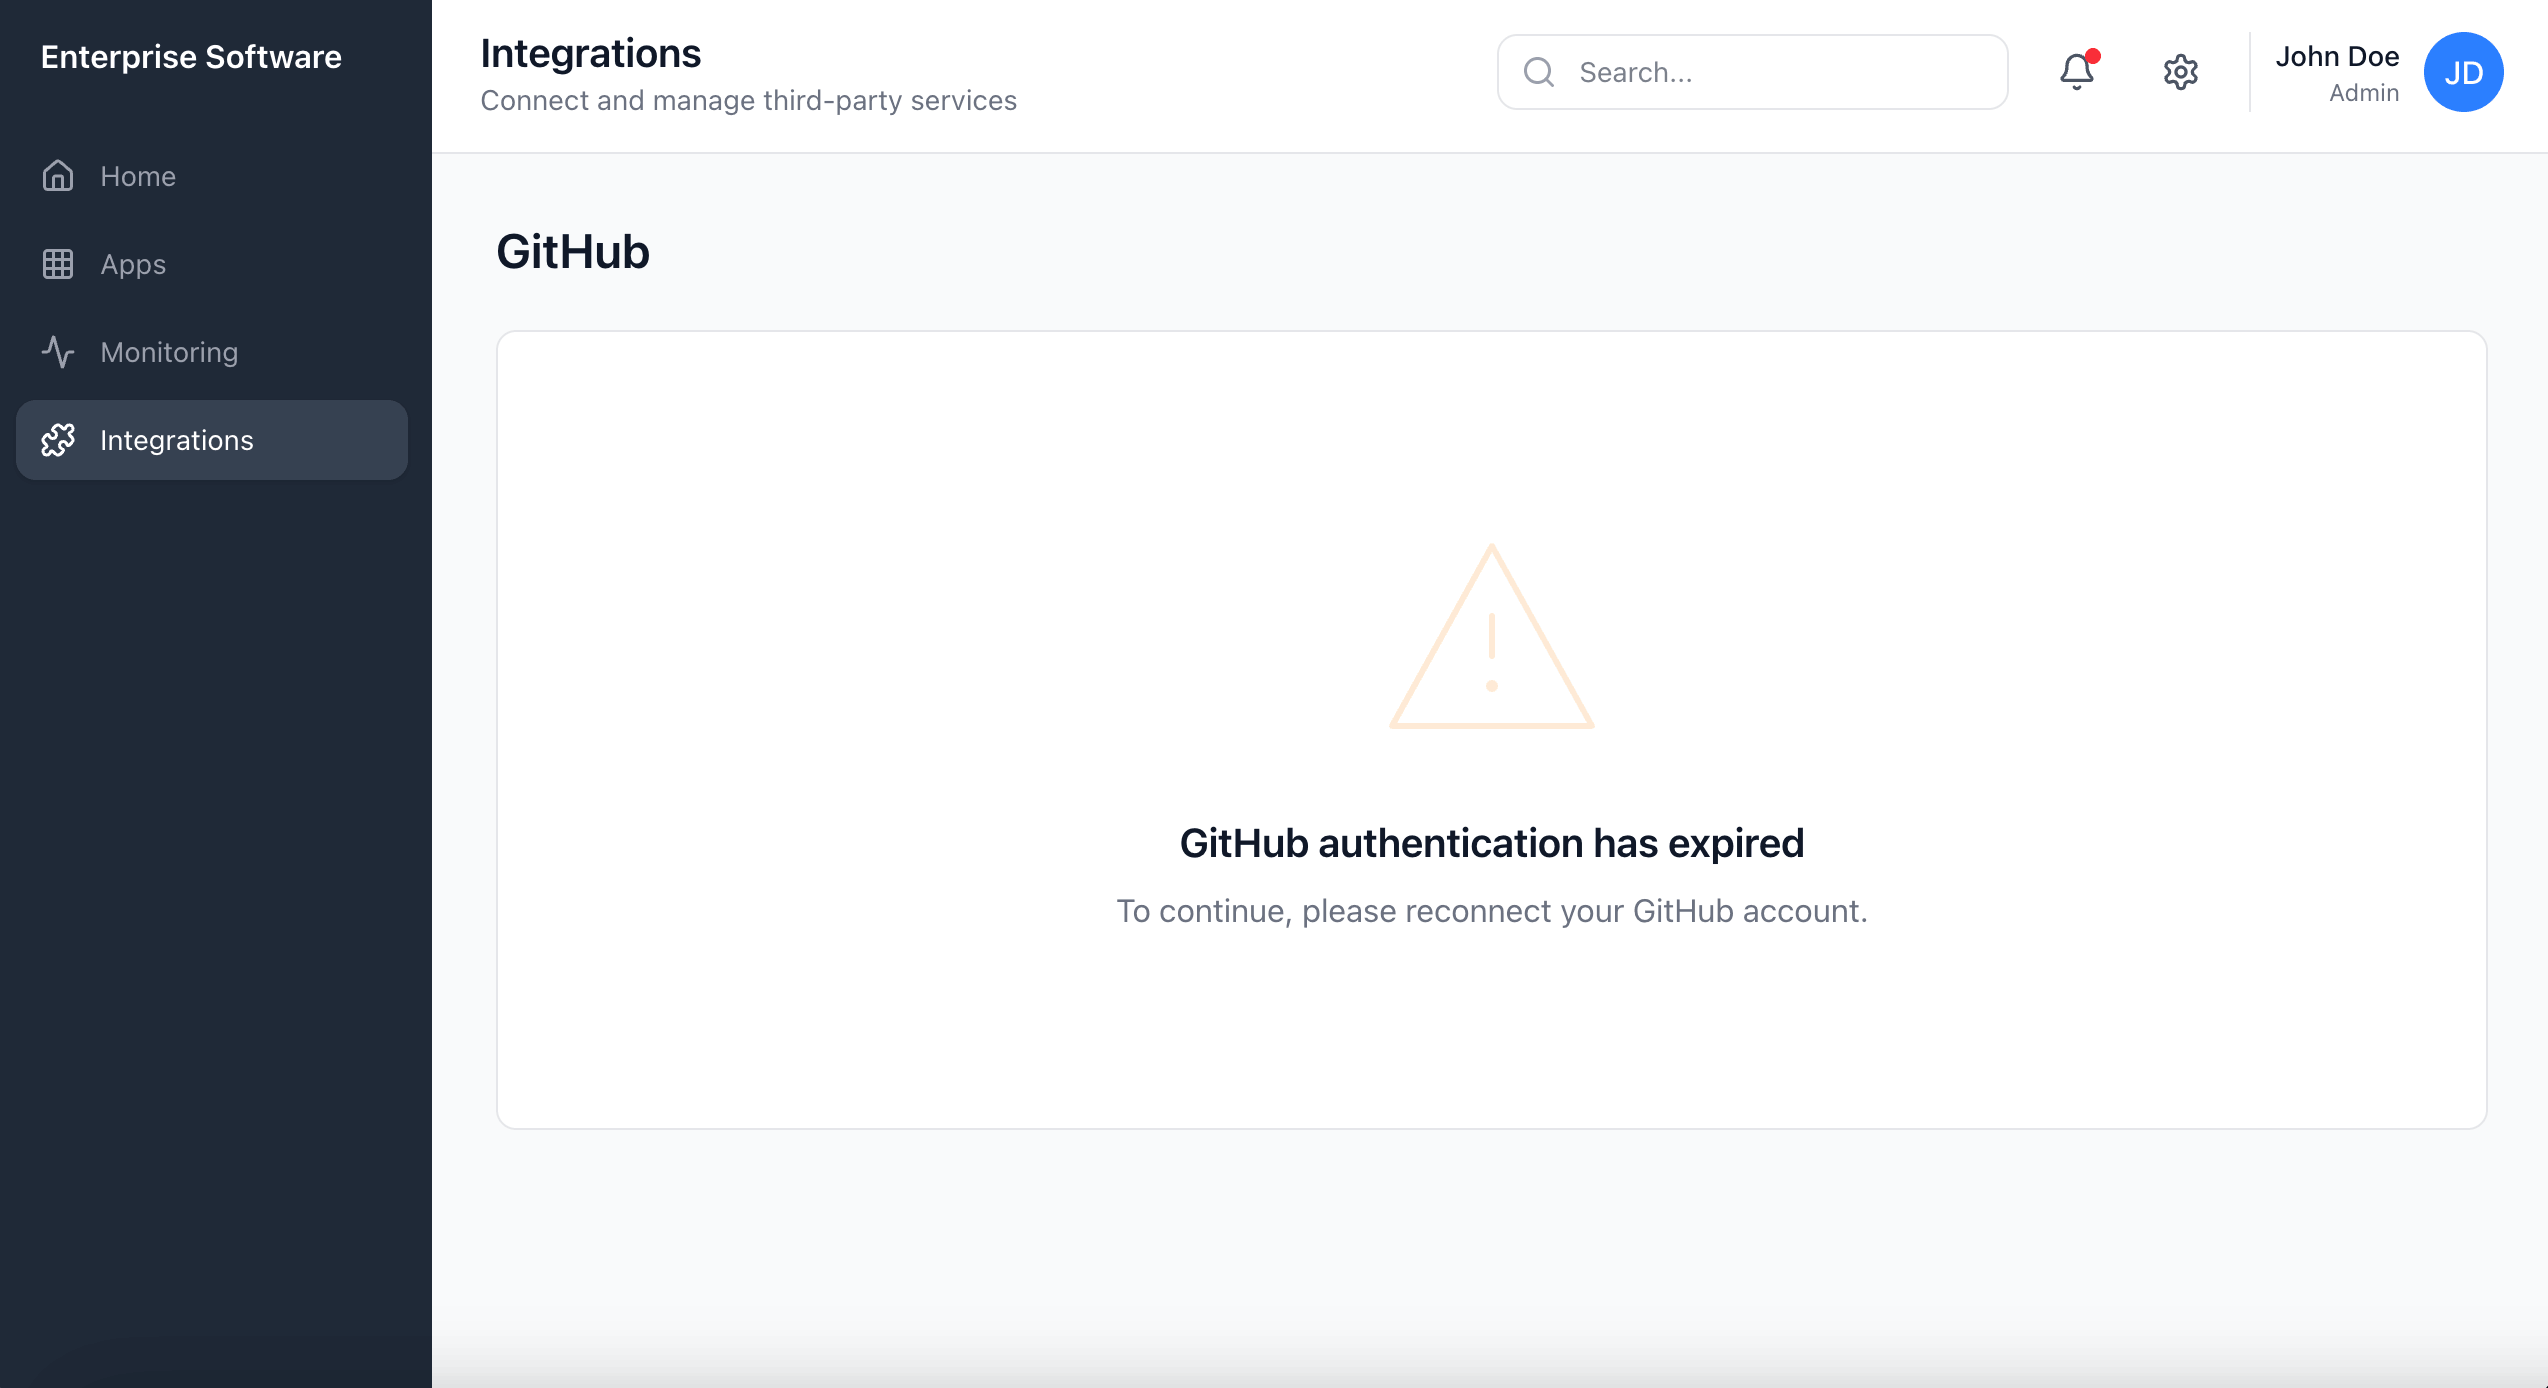
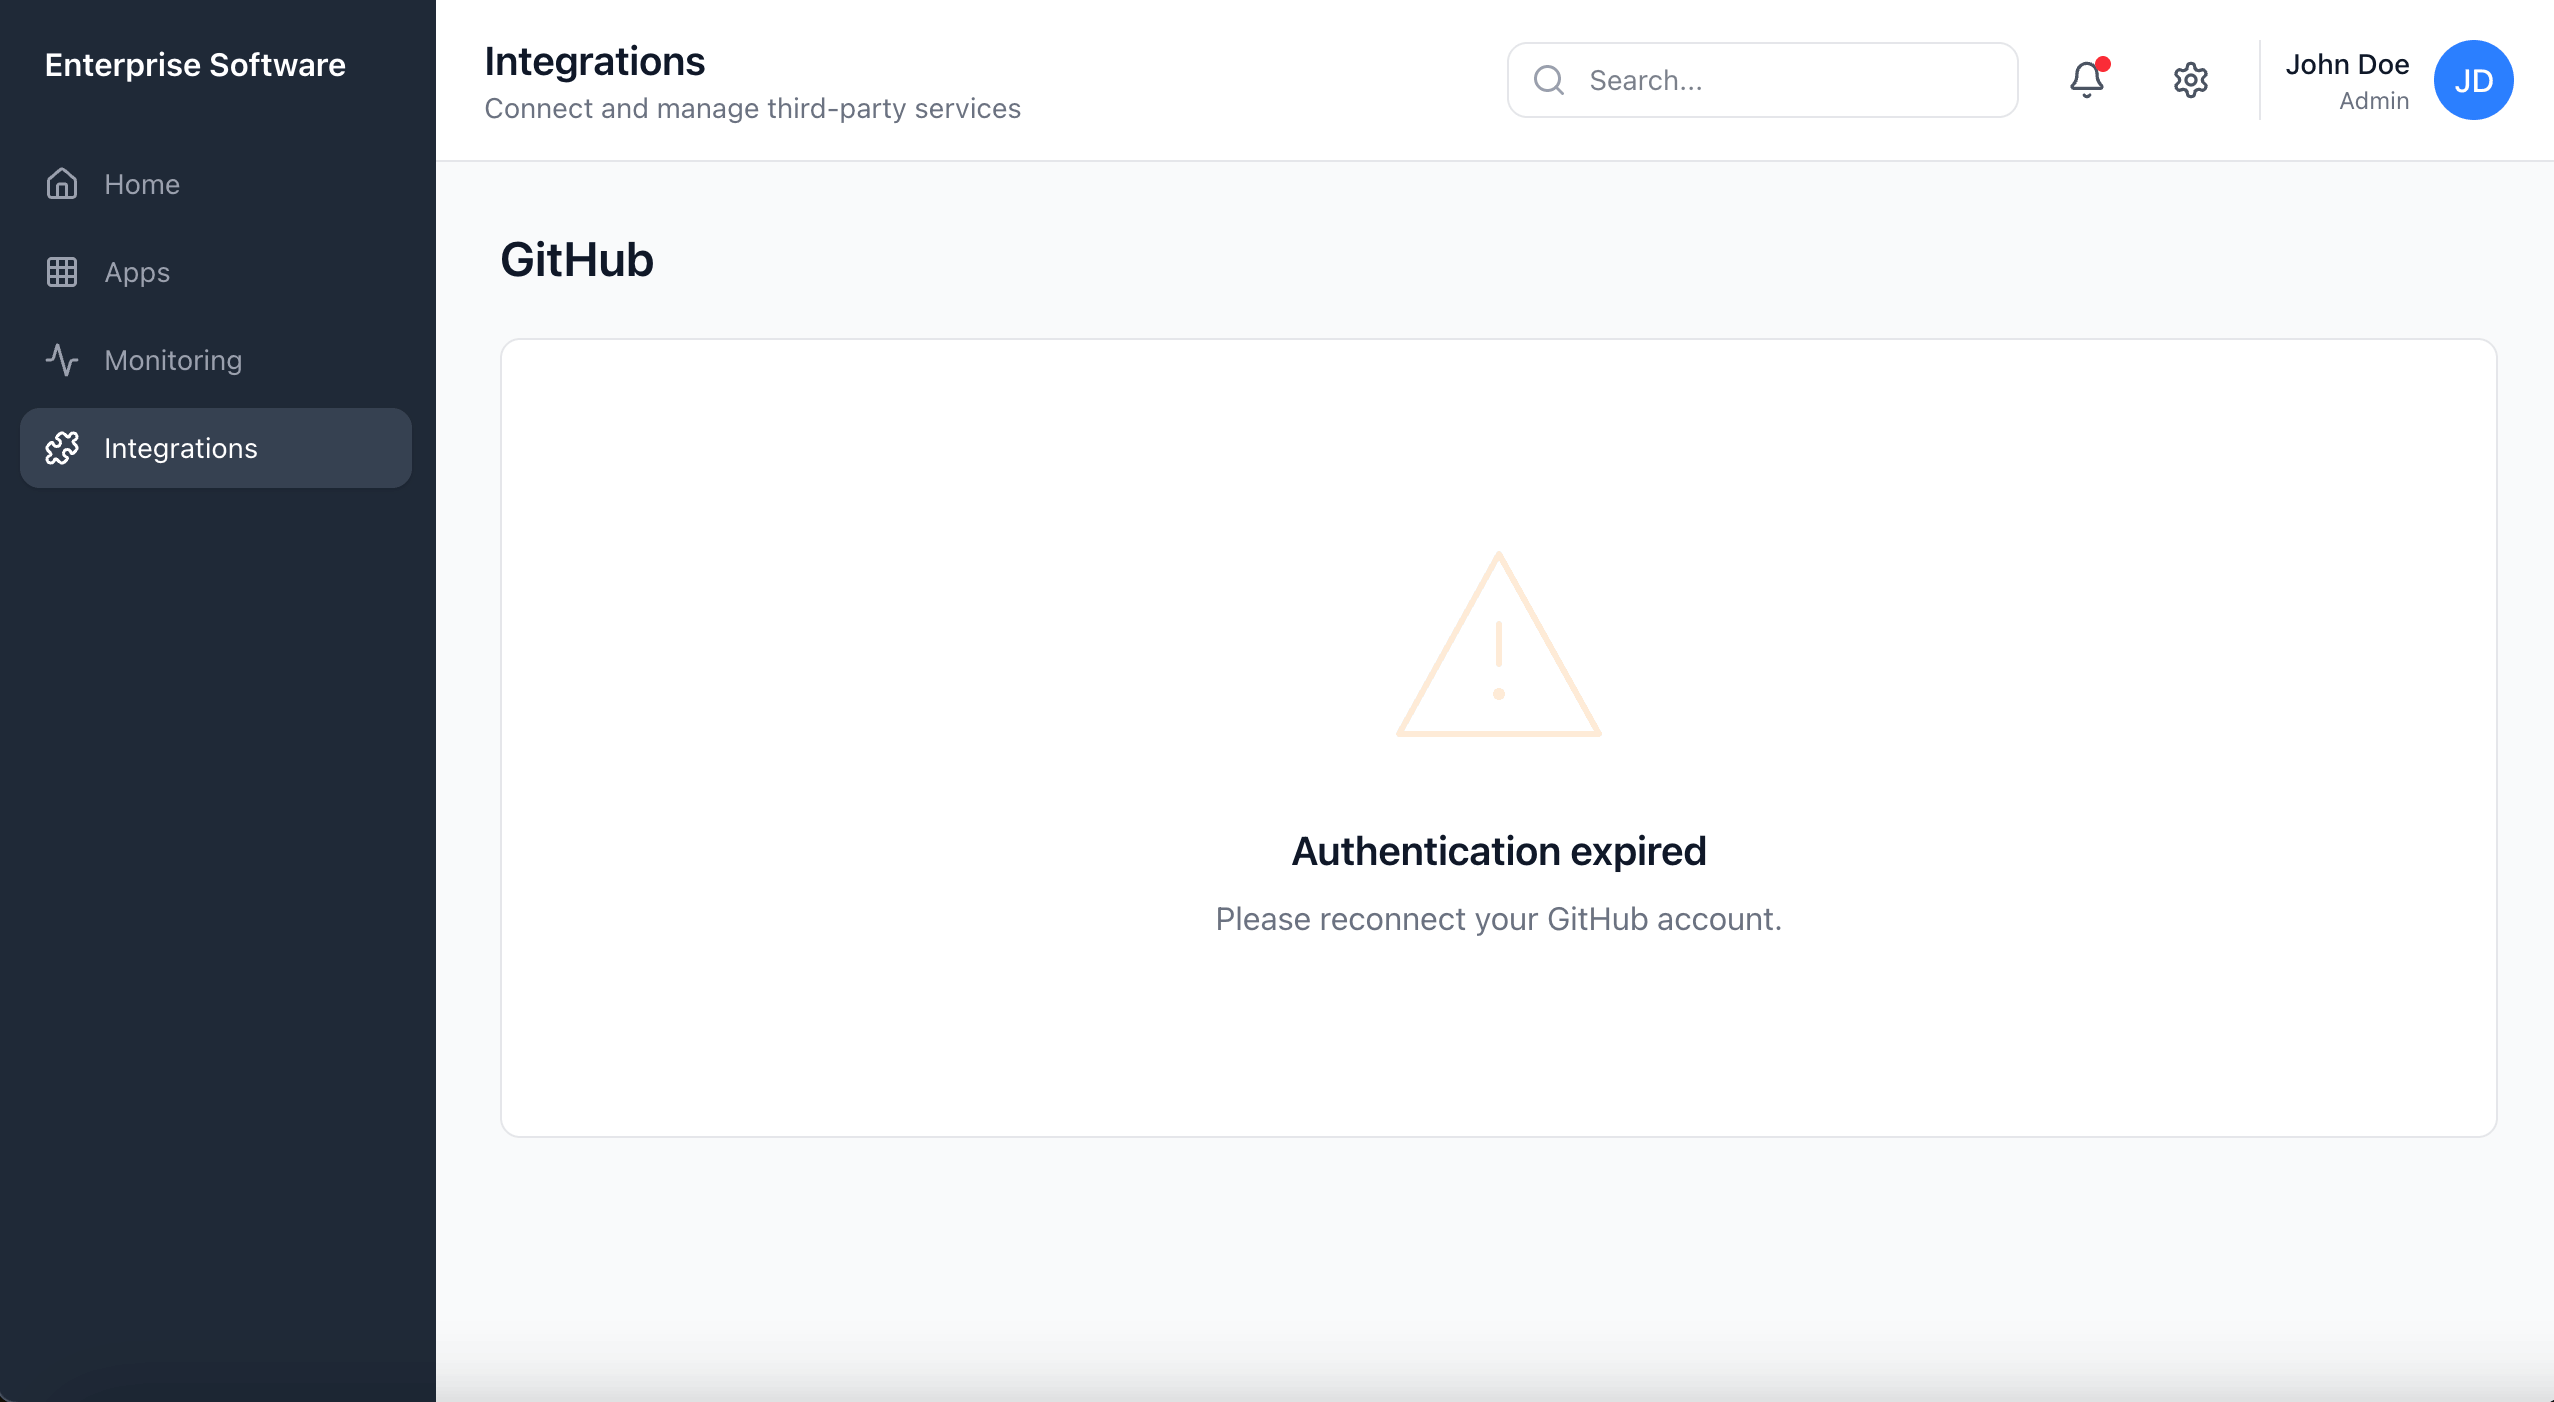
Improve UX copy and framework presentation
- Add before/after comparison table to A/B test article
- Update error message copy to 'Authentication expired, please reconnect your GitHub account'
- Make 'Previous Guidelines' heading bold in framework article
- Remove 'Scenario:' labels from framework, keep 'Response:' labels
- Update framework layout to be cleaner and more streamlined

diff --git a/articles/designing-empty-state-framework.html b/articles/designing-empty-state-framework.html
@@ -442,11 +442,10 @@
     }
 
     .before-box h4 {
-      font-size: 0.7rem;
+      font-size: 0.85rem;
       font-weight: 700;
-      text-transform: uppercase;
-      letter-spacing: 0.08em;
-      color: #999;
+      letter-spacing: 0.02em;
+      color: var(--muted);
       margin-bottom: 16px;
     }
 
@@ -539,25 +538,30 @@
 
     .framework-content {
       flex: 1;
-      display: grid;
-      grid-template-columns: auto 1fr;
-      gap: 8px 12px;
-      align-items: baseline;
-    }
-
-    .framework-content .scenario-label,
-    .framework-content .response-label {
-      font-size: 0.7rem;
-      font-weight: 600;
-      text-transform: uppercase;
-      letter-spacing: 0.05em;
-      color: var(--muted);
+      display: flex;
+      flex-direction: column;
+      gap: 8px;
     }
 
     .framework-content .scenario-text {
       color: var(--text);
       font-size: 0.875rem;
       line-height: 1.6;
+    }
+
+    .framework-content .response-row {
+      display: flex;
+      gap: 8px;
+      align-items: baseline;
+    }
+
+    .framework-content .response-label {
+      font-size: 0.7rem;
+      font-weight: 600;
+      text-transform: uppercase;
+      letter-spacing: 0.05em;
+      color: var(--muted);
+      flex-shrink: 0;
     }
 
     .framework-content .response-text {
@@ -901,60 +905,66 @@
               <span class="framework-number">1</span>
               <span class="framework-tag">First Use</span>
               <div class="framework-content">
-                <span class="scenario-label">Scenario:</span>
                 <span class="scenario-text">User encounters a feature for the first time</span>
-                <span class="response-label">Response:</span>
-                <span class="response-text">Guide them to action or explain the value</span>
+                <div class="response-row">
+                  <span class="response-label">Response:</span>
+                  <span class="response-text">Guide them to action or explain the value</span>
+                </div>
               </div>
             </div>
             <div class="framework-row framework-row-2">
               <span class="framework-number">2</span>
               <span class="framework-tag">Blocker</span>
               <div class="framework-content">
-                <span class="scenario-label">Scenario:</span>
                 <span class="scenario-text">User can't proceed (waiting for admin approval)</span>
-                <span class="response-label">Response:</span>
-                <span class="response-text">Explain what's blocking them and when it will resolve</span>
+                <div class="response-row">
+                  <span class="response-label">Response:</span>
+                  <span class="response-text">Explain what's blocking them and when it will resolve</span>
+                </div>
               </div>
             </div>
             <div class="framework-row framework-row-3">
               <span class="framework-number">3</span>
               <span class="framework-tag">Failure</span>
               <div class="framework-content">
-                <span class="scenario-label">Scenario:</span>
                 <span class="scenario-text">Something broke or timed out</span>
-                <span class="response-label">Response:</span>
-                <span class="response-text">Explain what happened and how to recover</span>
+                <div class="response-row">
+                  <span class="response-label">Response:</span>
+                  <span class="response-text">Explain what happened and how to recover</span>
+                </div>
               </div>
             </div>
             <div class="framework-row framework-row-4">
               <span class="framework-number">4</span>
               <span class="framework-tag">No Results</span>
               <div class="framework-content">
-                <span class="scenario-label">Scenario:</span>
                 <span class="scenario-text">Search or filter returns nothing</span>
-                <span class="response-label">Response:</span>
-                <span class="response-text">Help them refine their search or suggest alternatives</span>
+                <div class="response-row">
+                  <span class="response-label">Response:</span>
+                  <span class="response-text">Help them refine their search or suggest alternatives</span>
+                </div>
               </div>
             </div>
             <div class="framework-row framework-row-5">
               <span class="framework-number">5</span>
               <span class="framework-tag">User Action</span>
               <div class="framework-content">
-                <span class="scenario-label">Scenario:</span>
                 <span class="scenario-text">User deleted or archived all their content</span>
-                <span class="response-label">Response:</span>
-                <span class="response-text">Acknowledge their action and suggest next steps</span>
+                <div class="response-row">
+                  <span class="response-label">Response:</span>
+                  <span class="response-text">Acknowledge their action and suggest next steps</span>
+                </div>
               </div>
             </div>
             <div class="framework-row framework-row-6">
               <span class="framework-number">6</span>
               <span class="framework-tag">Transition</span>
               <div class="framework-content">
-                <span class="scenario-label">Scenario:</span>
                 <span class="scenario-text">System is processing (loading, syncing)</span>
-                <span class="response-label">Response:</span>
-                <span class="response-text">Set clear timing expectations</span>
+                <div class="response-row">
+                  <span class="response-label">Response:</span>
+                  <span class="response-text">Set clear timing expectations</span>
+                </div>
               </div>
             </div>
           </div>

diff --git a/articles/ab-test-case.html b/articles/ab-test-case.html
@@ -368,6 +368,50 @@
       border-radius: 4px;
     }
 
+    /* ---------------  COPY COMPARISON TABLE  --------------- */
+    .copy-comparison-table {
+      width: 100%;
+      border-collapse: collapse;
+      margin: 32px 0;
+      font-size: 0.875rem;
+      border-radius: var(--radius);
+      overflow: hidden;
+      box-shadow: 0 4px 20px -8px rgba(0,0,0,.1);
+    }
+
+    .copy-comparison-table th,
+    .copy-comparison-table td {
+      padding: 16px 20px;
+      text-align: left;
+      border-bottom: 1px solid #eee;
+      vertical-align: top;
+    }
+
+    .copy-comparison-table th {
+      background: linear-gradient(135deg, #f8faff 0%, #f0f5ff 100%);
+      font-weight: 600;
+      color: var(--text);
+      width: 50%;
+    }
+
+    .copy-comparison-table tr:last-child td {
+      border-bottom: none;
+    }
+
+    .copy-comparison-table tbody tr:hover {
+      background: #fafbfc;
+    }
+
+    .copy-comparison-table td:first-child {
+      color: var(--muted);
+      font-style: italic;
+    }
+
+    .copy-comparison-table td:last-child {
+      font-weight: 500;
+      color: var(--text);
+    }
+
     /* ---------------  METHODOLOGY NOTE  --------------- */
     .methodology-note {
       background: #fafafa;
@@ -561,7 +605,23 @@
           <p>In A/B testing, I would set up a null hypothesis (H₀): there's no difference between the two messages. The goal is to see whether the new copy produces results unlikely to occur if that null hypothesis were true.</p>
 
           <h2>Designing the Test</h2>
-	  <p>The proposed message: "There was an issue with authentication. Please reconnect your GitHub account."</p>
+	  <p>The proposed message: "Authentication expired, please reconnect your GitHub account." This explained the issue and gave a clear next step.</p>
+
+	  <table class="copy-comparison-table">
+	    <thead>
+	      <tr>
+	        <th>Before</th>
+	        <th>After</th>
+	      </tr>
+	    </thead>
+	    <tbody>
+	      <tr>
+	        <td>401 Unauthorized</td>
+	        <td>Authentication expired, please reconnect your GitHub account.</td>
+	      </tr>
+	    </tbody>
+	  </table>
+
 	  <img src="../assets/ux-error-improved.png" alt="Improved error message explaining authentication issue with clear reconnection instructions" class="article-image-spaced">
 	  <p>I would partner with a data scientist and engineer to split traffic 50/50 between the old and new messages.</p>
 	  <p>Before launching, I would use a sample size calculator (like Evan Miller's) to determine how long to run the test. With a minimum detectable effect of ~10 percentage points, 80% power, and 0.05 significance, I would need roughly 800-900 users per group. Depending on error frequency, that might take two weeks.</p>
